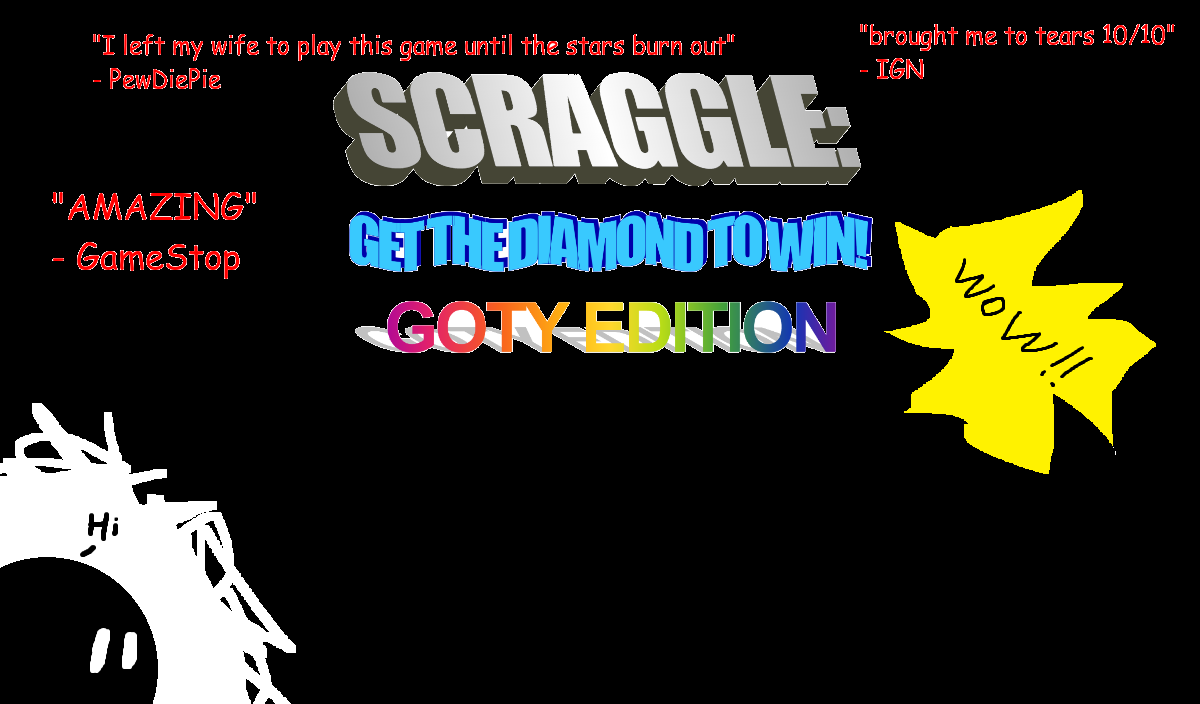
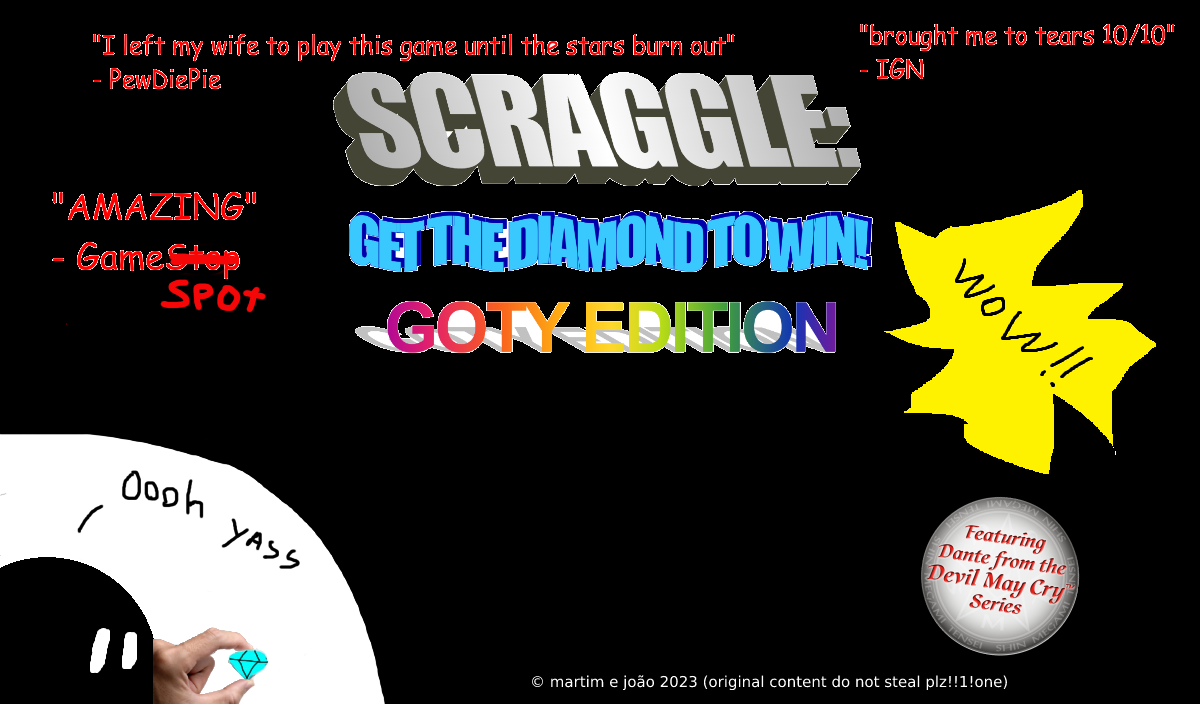
Title card nova, título de janela novo

diff --git a/code/main.py b/code/main.py
@@ -78,7 +78,7 @@ class Game:
 
 # Pygame setup
 pygame.init()
-pygame.display.set_caption("Scraggle: Get the Diamond to Win!")
+pygame.display.set_caption("Scraggle: Get the Diamond to Win! GAME OF THE YEAR EDITION")
 game_icon = pygame.image.load('graphics/ui/icon.png')
 pygame.display.set_icon(game_icon)
 screen = pygame.display.set_mode((screen_width,screen_height))

diff --git a/code/overworld.py b/code/overworld.py
@@ -11,6 +11,7 @@ class Overworld:
 		self.BLACK = (0, 0, 0)
 		self.WHITE = (255, 255, 255)
 		self.GREEN = (0, 255, 0)
+		
 		# Load fonts
 		self.font = pygame.font.Font('graphics/ui/ARCADEPI.TTF', 20)
 		self.font_title = pygame.font.Font('graphics/ui/ARCADEPI.TTF', 50)
